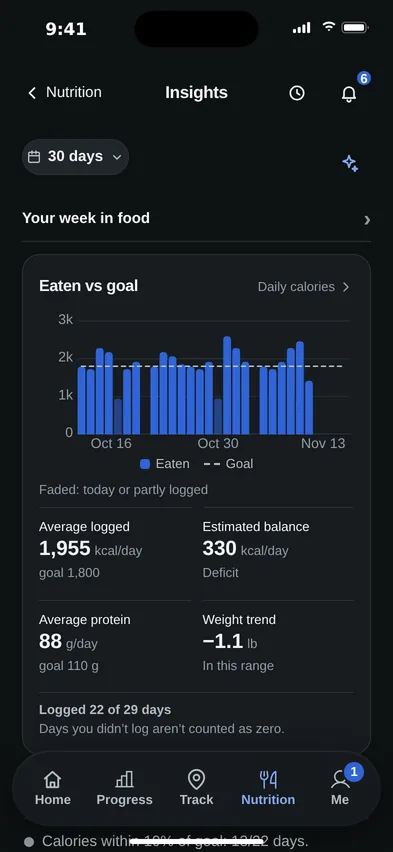
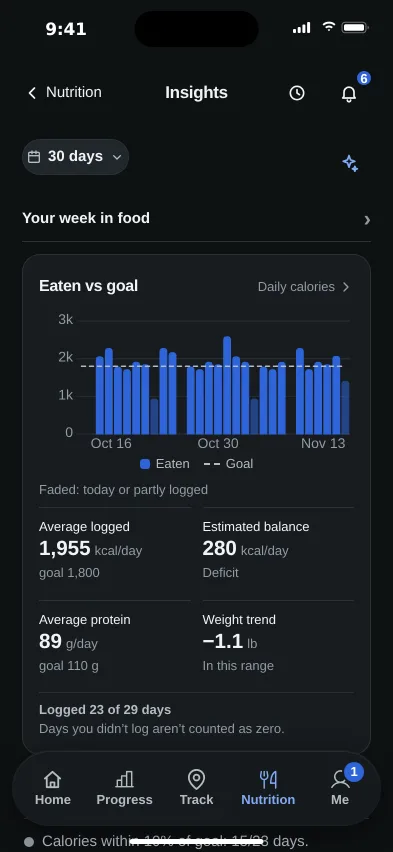
Polish the Food story screens and insight data

diff --git a/site/food.html b/site/food.html
@@ -61,14 +61,13 @@
         <div class="phone-frame phone-frame--story"><picture><source data-food-dark srcset="assets/shots/dark-describe.webp" media="(prefers-color-scheme: dark)"><img data-food-pinned-image src="assets/shots/light-describe.webp" alt="Kit reviews three foods in a Nutrition chat before they are added." width="786" height="1704"></picture></div>
       </aside>
       <div class="story-steps">
-        <h2>From a message to a meal.</h2>
         <article class="story-step is-visible" data-food-screen="describe" data-food-alt="Kit reviews three foods in a Nutrition chat before they are added.">
           <div><span class="eyebrow">Kit chat</span><h3>Say what you ate.</h3><p>Type what you ate, check the amounts, then log it.</p>
             <div class="story-demo" data-chat-demo><p data-chat-line>Greek yogurt with berries, oatmeal with banana, and a chicken salad bowl</p><p data-chat-reply>Review the foods and portions before saving.</p><button type="button" data-chat-replay>Replay message</button></div>
           </div>
           <div class="step-phone"><div class="phone-frame"><picture><source srcset="assets/shots/dark-describe.webp" media="(prefers-color-scheme: dark)"><img src="assets/shots/light-describe.webp" alt="Kit reviews three foods in a Nutrition chat before they are added." width="786" height="1704" loading="lazy"></picture></div></div>
         </article>
-        <article class="story-step" data-food-screen="food" data-food-alt="Nutrition shows the day's meals, calories and macros.">
+        <article class="story-step" data-food-screen="day" data-food-alt="Nutrition shows the day's meals, calories and macros.">
           <div><span class="eyebrow">Daily log</span><h3>See the whole day.</h3><p>Daily calories and protein against your goals.</p></div>
           <div class="step-phone"><div class="phone-frame"><picture><source srcset="assets/shots/dark-food.webp" media="(prefers-color-scheme: dark)"><img src="assets/shots/light-food.webp" alt="Nutrition shows the day's meals, calories and macros." width="786" height="1704" loading="lazy"></picture></div></div>
         </article>

diff --git a/site/templates/food.html b/site/templates/food.html
@@ -61,14 +61,13 @@
         <div class="phone-frame phone-frame--story"><picture><source data-food-dark srcset="assets/shots/dark-describe.webp" media="(prefers-color-scheme: dark)"><img data-food-pinned-image src="assets/shots/light-describe.webp" alt="Kit reviews three foods in a Nutrition chat before they are added." width="786" height="1704"></picture></div>
       </aside>
       <div class="story-steps">
-        <h2>From a message to a meal.</h2>
         <article class="story-step is-visible" data-food-screen="describe" data-food-alt="Kit reviews three foods in a Nutrition chat before they are added.">
           <div><span class="eyebrow">Kit chat</span><h3>Say what you ate.</h3><p>{{copy:food-quick-description}}</p>
             <div class="story-demo" data-chat-demo><p data-chat-line>Greek yogurt with berries, oatmeal with banana, and a chicken salad bowl</p><p data-chat-reply>Review the foods and portions before saving.</p><button type="button" data-chat-replay>Replay message</button></div>
           </div>
           <div class="step-phone"><div class="phone-frame"><picture><source srcset="assets/shots/dark-describe.webp" media="(prefers-color-scheme: dark)"><img src="assets/shots/light-describe.webp" alt="Kit reviews three foods in a Nutrition chat before they are added." width="786" height="1704" loading="lazy"></picture></div></div>
         </article>
-        <article class="story-step" data-food-screen="food" data-food-alt="Nutrition shows the day's meals, calories and macros.">
+        <article class="story-step" data-food-screen="day" data-food-alt="Nutrition shows the day's meals, calories and macros.">
           <div><span class="eyebrow">Daily log</span><h3>See the whole day.</h3><p>{{copy:food-calories-description}}</p></div>
           <div class="step-phone"><div class="phone-frame"><picture><source srcset="assets/shots/dark-food.webp" media="(prefers-color-scheme: dark)"><img src="assets/shots/light-food.webp" alt="Nutrition shows the day's meals, calories and macros." width="786" height="1704" loading="lazy"></picture></div></div>
         </article>

diff --git a/site/assets/food-story.css b/site/assets/food-story.css
@@ -4,6 +4,7 @@
 .food-story .phone-frame { width:min(290px,100%); }
 .food-story .story-step { max-width:470px; }
 .food-story .story-step p { max-width:40ch; }
+.food-story .story-step:last-child { min-height:78vh; padding-bottom:80px; }
 .food-story .step-phone { display:none; }
 .food-story .story-step.is-visible { opacity:1; }
 .story-demo { margin-top:20px; max-width:390px; }
@@ -23,9 +24,9 @@
   .food-story { padding:70px 20px 40px; }
   .food-story .home-story-grid { display:block; margin-inline:0; padding-inline:0; overflow:visible; }
   .food-story .story-pin { display:none; }
-  .food-story .story-steps > h2 { margin-bottom:10px; }
   .food-story .story-step { min-height:auto; display:grid; grid-template-columns:1fr; gap:24px; padding:64px 0; opacity:1; transform:none; }
   .food-story .story-step:last-child { padding-bottom:0; }
+  .food-story .story-step:last-child { min-height:auto; }
   .food-story .story-step h3 { max-width:16ch; }
   .food-story .step-phone { display:block; width:min(270px,70vw); justify-self:center; }
 }
@@ -33,4 +34,5 @@
   .food-story .story-step { opacity:1; transform:none; animation:none; }
   .food-story .story-pin { display:none; }
   .food-story .step-phone { display:block; width:min(270px,70vw); margin:24px auto 0; }
+  .food-story .story-step:last-child { min-height:auto; padding-bottom:0; }
 }

diff --git a/site/assets/food-story.js b/site/assets/food-story.js
@@ -12,8 +12,9 @@
     const refresh = () => {
       const step = steps.find(item => item.dataset.foodScreen === active);
       if (!pinned || !step) return;
-      const light = `assets/shots/light-${active}.webp`;
-      const night = `assets/shots/dark-${active}.webp`;
+      const shot = active === 'day' ? 'food' : active;
+      const light = `assets/shots/light-${shot}.webp`;
+      const night = `assets/shots/dark-${shot}.webp`;
       const alt = step.dataset.foodAlt || 'Kinetta Nutrition screen with demo data.';
       pinned.src = dark.matches ? night : light;
       pinned.alt = alt;
@@ -26,7 +27,7 @@
       refresh();
     };
 
-    if ('IntersectionObserver' in window && !reduce) {
+    if ('IntersectionObserver' in window) {
       const observer = new IntersectionObserver(entries => entries.forEach(entry => {
         if (entry.isIntersecting) activate(entry.target);
       }), {rootMargin:'-35% 0px -45%'});

diff --git a/dev/demo/seed.py b/dev/demo/seed.py
@@ -37,16 +37,31 @@ def main():
     print('import', j['status'], j.get('added'))
     random.seed(3); today = seed_date()
     for k in range(0, 28):
-        d = str(today - dt.timedelta(days=k))
+        day = today - dt.timedelta(days=k)
+        d = str(day)
+        # The insight chart should look like a month of real logging: a few
+        # missing days, naturally uneven totals, a holiday meal, and an
+        # on-target run. The app calculates its displayed average from these
+        # same saved entries (unlogged dates are omitted, never entered as 0).
+        if k in (6, 18):
+            continue
         if k == 0:
             rows = [
                 {'day': d, 'meal': 'breakfast', 'name': 'Oats and berries', 'kcal': 680, 'protein_g': 26, 'carbs_g': 90, 'fat_g': 20},
                 {'day': d, 'meal': 'lunch', 'name': 'Chicken grain bowl', 'kcal': 720, 'protein_g': 41, 'carbs_g': 78, 'fat_g': 24},
             ]
         else:
-            rows = [{'day': d, 'meal': 'breakfast', 'name': random.choice(['Oatmeal with blueberries', 'Eggs on whole-wheat toast']), 'kcal': random.randint(320, 420), 'protein_g': 16, 'carbs_g': 50, 'fat_g': 9},
-                    {'day': d, 'meal': 'lunch', 'name': random.choice(['Turkey sandwich', 'Chicken salad bowl', 'Black bean burrito']), 'kcal': random.randint(480, 640), 'protein_g': 34, 'carbs_g': 55, 'fat_g': 16},
-                    {'day': d, 'meal': 'dinner', 'name': random.choice(['Baked salmon + potatoes', 'Pasta with turkey', 'Tofu stir-fry']), 'kcal': random.randint(550, 760), 'protein_g': 38, 'carbs_g': 70, 'fat_g': 20}]
+            weekend = day.weekday() >= 5
+            low_day = k in (10, 21)
+            holiday = day.month == 10 and day.day == 31
+            total = 930 if low_day else (2580 if holiday else (2050 + 110 * (k % 3) if weekend else 1710 + 65 * (k % 4)))
+            breakfast = round(total * .24)
+            lunch = round(total * .32)
+            dinner = total - breakfast - lunch
+            rows = [
+                {'day': d, 'meal': 'breakfast', 'name': random.choice(['Oatmeal with blueberries', 'Eggs on whole-wheat toast']), 'kcal': breakfast, 'protein_g': 16, 'carbs_g': 50, 'fat_g': 9},
+                {'day': d, 'meal': 'lunch', 'name': random.choice(['Turkey sandwich', 'Chicken salad bowl', 'Black bean burrito']), 'kcal': lunch, 'protein_g': 34, 'carbs_g': 55, 'fat_g': 16},
+                {'day': d, 'meal': 'dinner', 'name': 'Holiday dinner' if holiday else random.choice(['Baked salmon + potatoes', 'Pasta with turkey', 'Tofu stir-fry']), 'kcal': dinner, 'protein_g': 38, 'carbs_g': 70, 'fat_g': 20}]
         q('POST', '/api/food/entries', rows)
         if k % 3 == 0: q('PUT', '/api/food/weights', {'day': d, 'kg': round(64.8 - 0.035 * (28 - k) + random.uniform(-0.25, 0.25), 1)})
     q('PUT', '/api/food/targets', {'kcal_target': 1800, 'protein_target': 110})
